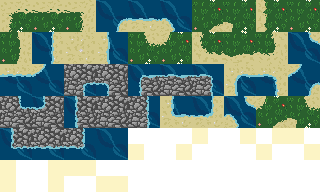
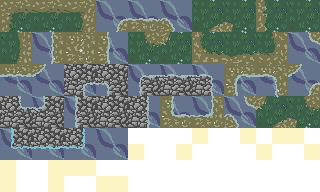
révision des graphiques

diff --git a/src/man/GOManager.cpp b/src/man/GOManager.cpp
@@ -11,10 +11,10 @@
 void GOManager::CreatePlayer(Entity &player)
 {
     player.AddComponent<ecs::Transform>(Vector2(500.0f, 700.0f), Vector2(0.0f, 0.0f), Vector2(32.0f, 32.0f), Vector2(3.0f, 3.0f));
-    player.AddComponent<ecs::Sprite>("Player", true);
+    player.AddComponent<ecs::Sprite>("Robot", true);
     player.AddComponent<ecs::KeyboardController>();
     player.AddComponent<ecs::Stat>();
-    player.AddComponent<ecs::CircularCollider>("Player");
+    player.AddComponent<ecs::CircularCollider>("Robot");
     player.AddGroup(Game::players);
 }
 

diff --git a/src/ecs/components/Sprite.cpp b/src/ecs/components/Sprite.cpp
@@ -11,10 +11,10 @@ namespace ecs
     {
         if(isAnimated)
         {
-            if (id == "Player")
+            if (id == "Robot")
             {
-                Animation walk = Animation(0, 7, 100);
-                Animation idle = Animation(1, 10, 150);
+                Animation walk = Animation(0, 20, 50);
+                Animation idle = Animation(1, 20, 150);
                 animations.emplace("Idle", idle);
                 animations.emplace("Walk", walk);
                 Play("Idle");

diff --git a/src/game/Game.cpp b/src/game/Game.cpp
@@ -71,7 +71,7 @@ void Game::Initialize()
     currentState = menuState;
     currentState->Enter(*this);
 
-    assets->AddTexture("Player", "assets/images/APlayer.png");
+    assets->AddTexture("Robot", "assets/images/ARobot.png");
     assets->AddTexture("LobbyTileSet", "assets/images/TSLobby.png");
 }
 

diff --git a/src/ecs/components/Collider.hpp b/src/ecs/components/Collider.hpp
@@ -8,6 +8,10 @@
 
 namespace ecs
 {
+    /**
+     * @brief Classe abstraite de base pour un collider
+     * 
+     */
     class Collider : public Component
     {
     public:

diff --git a/TODO.md b/TODO.md
@@ -2,9 +2,9 @@
 
 Refaire et tester :
     Projectiles
-    Lables
+    Lable
     Enemies
-    Colliders ( collisions en rebonds pour circular-circular et en glissement pour circular-AABB)
+    Colliders (collisions en rebonds pour circular-circular et en glissement pour circular-AABB)
 
 Revoir TOUS les fichiers pour :
     laisser uniquement les includes nécessaires
@@ -26,7 +26,6 @@ Multijoueur
         Exemple : P1 est un robot, P2 est un drone de support
     Deux joueurs symétriques ie la camera dézoom pour les inclure tout les deux
     Écran Scyndé
-
     si deter, faire en sorte que P2 puisse être en réseau
 
 Système de son avec SDL_mixer
@@ -60,7 +59,6 @@ Propreté du projet
     Debugging avec valgrind/gdb pour checker les memleaks
     Messages de debug claire, envoyer
     Licence pour SDL2?
-    
 
 Tests
     Boost.Test ??
@@ -69,6 +67,7 @@ Un logger in game???
 La DA
 
 # Pour aller loiinnn
+Statistiques de performances
 Utiliser des threads pour bien comprendre (pour quels usages?)
 Publier le jeu??? (ultra propre et brillerait cv)
 Faire en sorte qu'avec docker on puisse tester sur plus de platforms (ajouter des dockerfiles, et des services dans le docker-compose)

diff --git a/README.md b/README.md
@@ -7,19 +7,20 @@ Licenses : SDL2
 ## Explication du projet
 Texte explicatif du projet
 
-![imageClasse](ClasseUml.png?raw=true  "diagramme uml de classe pour expliquer l'ECS")
+![imageClasse](ClasseUml.png?raw=true  "diagramme uml de classe pour expliquer l'ECS")  
 Explication de l'image ci-dessus
 
-![imageSequence](SequenceUml.png?raw=true  "diagramme uml de séquences pour expliquer le déroulement du jeu")
+![imageSequence](SequenceUml.png?raw=true  "diagramme uml de séquences pour expliquer le déroulement du jeu")  
 Explication de l'image ci-dessus
 
-![imageEtat](EtatUml.png?raw=true  "diagramme uml d'etat pour expliquer les GameStates")
+![imageEtat](EtatUml.png?raw=true  "diagramme uml d'etat pour expliquer les GameStates")  
 Explication de l'image ci-dessus
 
 
 ## Installation
 
 First install SDL2 + image + ttf + mix ...
+
 ### Installation de SDL2
 
 #### MacOs
@@ -48,6 +49,7 @@ En gros, juste installer le binaire correspondant à la distro cible?
 ```bash
     cd /Path/to/the/folder/you/want/this/project/in
     git clone https://github.com/JoachimPerrin/Game.git
+    cd Game
     make run
 ```
 
